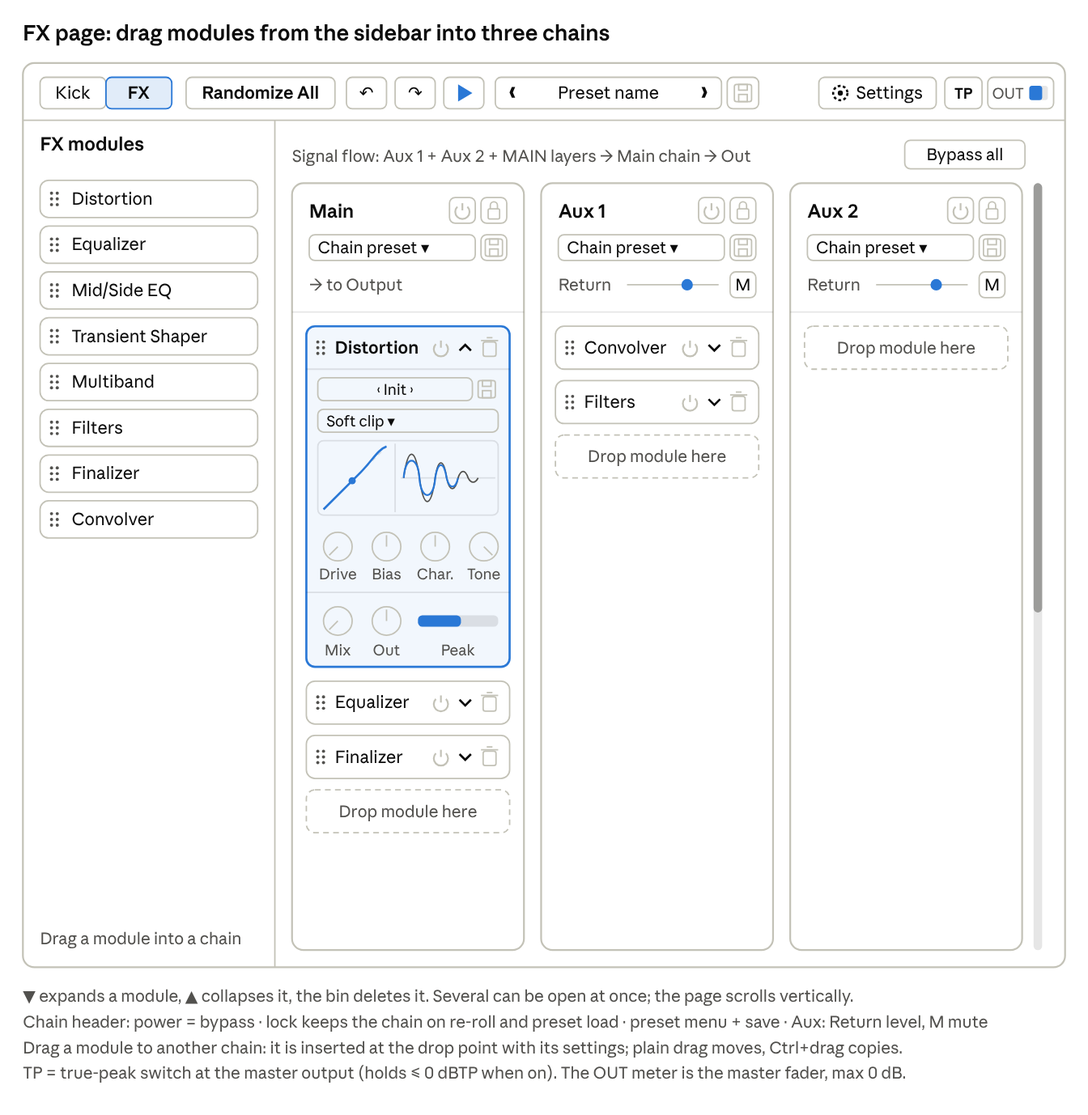
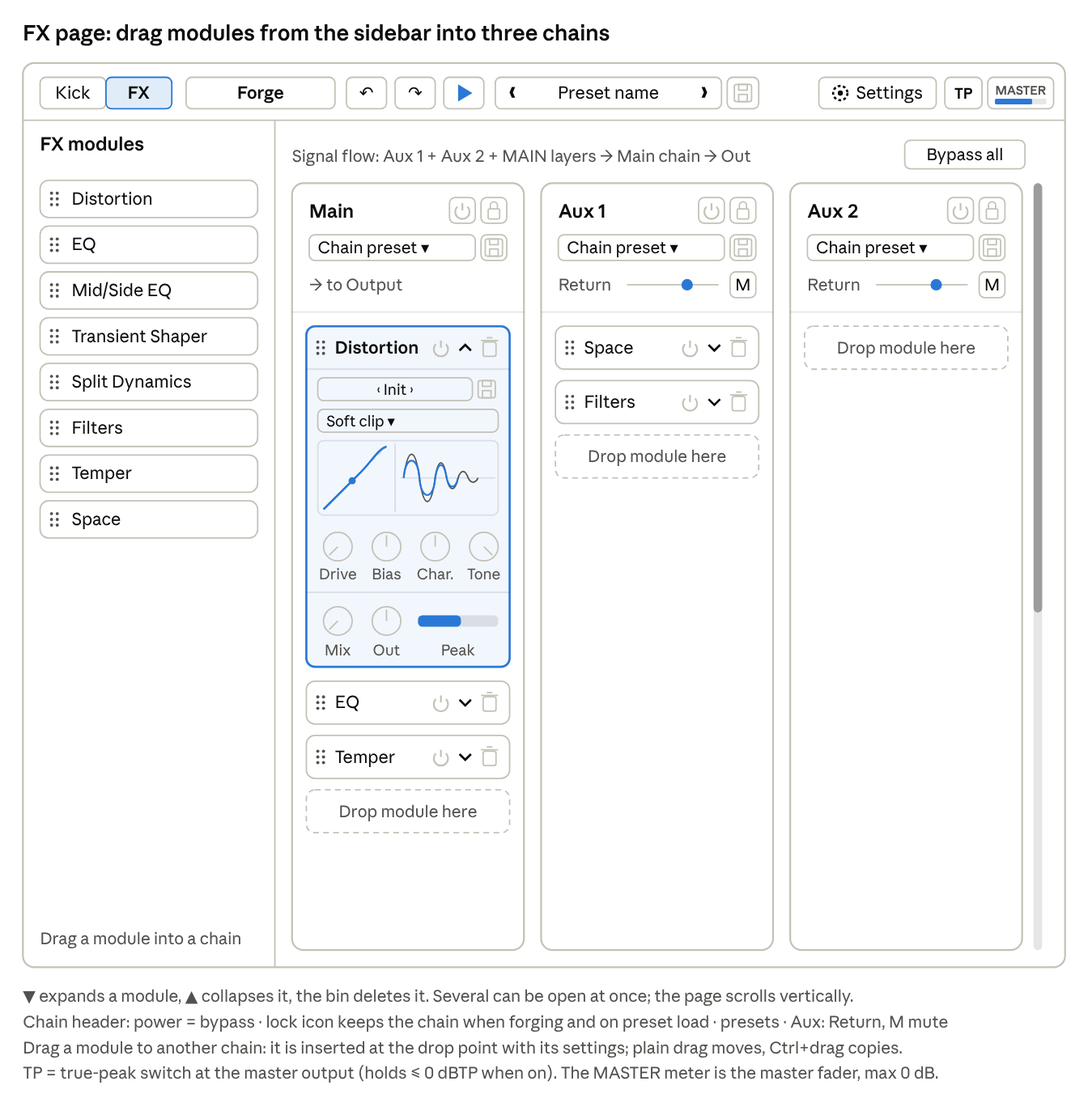
Spec v0.7: UI wording clear of the reference product (Forge, Reforge, Export all/layer, Length/Pitch/Tape, Temper, EQ, Split Dynamics, Space, MASTER, 75-200 %)
Renames UI terms that matched the reference product's feature names (section 11
trade dress). Wireframes re-exported with the new labels. Decision log keeps the
old names in earlier rows. Kept: Key Track, pitch-follow, Clip, Crunch.

diff --git a/docs/spec.md b/docs/spec.md
@@ -4,7 +4,7 @@ Oct 19, 2026 · @Bernard
 
 ## 1. Document control & purpose
 
-This is version 0.6 (draft) of the requirements and specification for KLAY (working title), a layer-based kick drum plugin inspired by a commercial layer-based kick plugin. Its job is to give the coding session a single, testable source of truth.
+This is version 0.7 (draft) of the requirements and specification for KLAY (working title), a layer-based kick drum plugin inspired by a commercial layer-based kick plugin. Its job is to give the coding session a single, testable source of truth.
 
 - **Scope:** a VST3 instrument plugin for Windows that stacks sample layers into a kick, processes it through a modular FX rack, and exports the result. Version 1 is a pure sample player with no genre style targets.
 - **Out of scope (v1):** synthesis (planned for version 2), genre style targets, macOS / AU / AAX, standalone app, copy protection and licensing, distribution, stem export (version 2), sequencing.
@@ -45,10 +45,10 @@ The primary user is a techno or hard-dance producer working at 135–160+ BPM wh
 
 **Key use cases**
 
-1. **UC-1 Roll a kick:** press Randomize All, audition via MIDI or the play button, repeat or undo.
-2. **UC-2 Refine a layer:** select a layer, swap its part, lock the rest, adjust offset, volume envelope, pitch and fader level.
+1. **UC-1 Roll a kick:** press Forge, audition via MIDI or the play button, repeat or undo.
+2. **UC-2 Refine a layer:** select a layer, swap its sample, lock the rest, adjust offset, volume envelope, pitch and fader level.
 3. **UC-3 Play in key:** key detection on layer 1 (Kick) sets the root; MIDI notes transpose all pitch-following layers in real time.
-4. **UC-4 Process:** build the Main and two Aux chains from the module sidebar, route layers to an aux chain, tweak modules, lock chains while re-rolling layers.
+4. **UC-4 Process:** build the Main and two Aux chains from the module sidebar, route layers to an aux chain, tweak modules, lock chains while reforging layers.
 5. **UC-5 Bring own sounds:** drag a folder in; it becomes a library usable in pickers and rolls.
 6. **UC-6 Export:** drag the master (incl. all FX chains) into the DAW timeline as WAV.
 7. **UC-7 Recall:** project reopens with identical sound (state saved in the host session).
@@ -57,18 +57,18 @@ The primary user is a techno or hard-dance producer working at 135–160+ BPM wh
 
 | Term | Meaning in this document |
 | --- | --- |
-| Part | One audio sample loaded into a layer |
-| Layer | A position in the stack (6 default, 12 max) holding one part; default names Kick, Rumble, Drive, Crunch, Transient, Texture, then Layer 7–12, renamable by double-click, with its own offset, volume envelope, fader, pitch, stretch, role and routing |
+| Part | Internal term for the audio sample loaded into a layer; the UI says layer or sample, never part |
+| Layer | A position in the stack (6 default, 12 max) holding one sample; default names Kick, Rumble, Drive, Crunch, Transient, Texture, then Layer 7–12, renamable by double-click, with its own offset, volume envelope, fader, pitch, stretch, role and routing |
 | Kick (layer 1) | The main kick body; carries the fundamental and is the key layer by default |
 | Crunch (layer 4) | Distorted, pitched low-end tail that follows the punch |
 | Rumble (layer 2) | Reverberated, filtered low-end bed after the kick (typical in hard techno) |
 | Transient (layer 5) | Short high-frequency attack layer for definition |
 | Drive (layer 3) / Texture (layer 6) | Drive: saturated layer adding density; Texture: extra noise, tops or reverb layer |
-| Role | The kind of part a layer holds (Kick, Rumble, Drive, Crunch, Transient, Texture or Any); layers 1–6 default to the role of their name; rolls draw from that role's pool |
+| Role | The kind of sample a layer holds (Kick, Rumble, Drive, Crunch, Transient, Texture or Any); layers 1–6 default to the role of their name; rolls draw from that role's pool |
 | Roll | One randomization action producing a new kick |
 | FX chain | Ordered list of FX modules with settings, saveable as a preset; there are three: Main, Aux 1, Aux 2 |
 | Render | Offline bounce of the stack (and, for export, all three FX chains) to an audio buffer |
-| Key Track | Mode where incoming MIDI notes transpose pitch-following parts |
+| Key Track | Mode where incoming MIDI notes transpose pitch-following layers |
 | Aux chain / routing | One of two parallel FX chains; a layer is routed to it all or nothing, and its output is mixed with the Main-routed layers before the Main chain |
 | Volume envelope | Drawable gain curve per layer over the kick length, snapped to a grid; replaces fades and sidechain ducking |
 | Selected layer | The layer whose card was clicked last (layer 1 by default); the visualiser shows it in colour and edits its envelope |
@@ -90,7 +90,7 @@ Version 1 targets one format on one platform: VST3 on Windows 10+ x64. The core 
 | FR-001 | Accept MIDI note-on to trigger the kick; velocity is ignored (every hit plays at full level) | Must |
 | FR-002 | Read host tempo and transport; manual BPM override, default 155 BPM; a changed value persists across reloads until changed again | Must |
 | FR-003 | Save and restore full state (stack, routing, volume envelopes, all three FX chains, settings, user sample references) via host session | Must |
-| FR-004 | Output stereo; the Mono dial on the Kick page (FR-216) makes the low end mono. A duplicate on the Finalizer follows in version 2 for per-layer export | Must |
+| FR-004 | Output stereo; the Mono dial on the Kick page (FR-216) makes the low end mono. A duplicate on the Temper module follows in version 2 for per-layer export | Must |
 | FR-005 | Support sample rates 44.1–192 kHz and buffer sizes 16–4096 | Must |
 | FR-006 | Expose only real-time parameters for host automation. MVP: master gain, aux return levels, aux mutes, Mono and TP. FX module parameters follow in M6 through a fixed set of automation slots, since modules are added and removed at runtime. Layer parameters baked into the offline render (fader, pitch, stretch, envelope) are not automatable | Should |
 | FR-007 | Validate in Windows VST3 hosts: Ableton Live, FL Studio, Bitwig, Reaper, Cubase, Studio One. M0 and the MVP smoke tests use Ableton Live, Reaper and FL Studio; the others follow when available | Must |
@@ -110,8 +110,8 @@ Requirements are grouped by subsystem; each maps to a module in section 10.
 | FR-102 | Per layer: time offset (sample-accurate, Shift+drag on the waveform), start trim and end trim (handles at the left and right edges of the waveform in Layer view) | Must |
 | FR-103 | Per layer: drawable volume envelope (section 7.8); replaces separate fades | Must |
 | FR-104 | Per layer, Pitch mode (FR-106): pitch ±12 semitones and ±100 cents without changing length (Signalsmith Stretch) | Must |
-| FR-105 | **Per layer: length change without pitch change**, 0.25×–8×, in Stretch mode (FR-106), using Signalsmith Stretch — top priority of the pitch/length features | Must |
-| FR-106 | Per layer: one knob and a three-way mode switch, default Stretch. Stretch: changes length only, 0.25–8×, pitch unchanged (Signalsmith Stretch, FR-105). Pitch: changes pitch only, ±12 st and ±100 ct, length unchanged (Signalsmith Stretch, FR-104). Repitch: tape-style varispeed, length and pitch change together, 0.25–8×, with the resulting pitch shown in the readout (JUCE LagrangeInterpolator). Only the active mode is applied, so a layer is either stretched, pitched or repitched. Each mode keeps its own value; switching modes applies that mode's stored value and is one undo step. Replaces the v0.4 behaviour (separate Pitch and Stretch knobs); scheduled for the second pass of M1 | Must |
+| FR-105 | **Per layer: length change without pitch change**, 0.25×–8×, in Length mode (FR-106), using Signalsmith Stretch — top priority of the pitch/length features | Must |
+| FR-106 | Per layer: one knob and a three-way mode switch, default Length. Length: changes length only, 0.25–8×, pitch unchanged (Signalsmith Stretch, FR-105). Pitch: changes pitch only, ±12 st and ±100 ct, length unchanged (Signalsmith Stretch, FR-104). Tape: tape-style varispeed (repitch), length and pitch change together, 0.25–8×, with the resulting pitch shown in the readout (JUCE LagrangeInterpolator). Only the active mode is applied, so a layer is either stretched, pitched or repitched. Each mode keeps its own value; switching modes applies that mode's stored value and is one undo step. Replaces the v0.4 behaviour (separate Pitch and Stretch knobs); scheduled for the second pass of M1 | Must |
 | FR-107 | Stack is rendered offline whenever a layer edit occurs, into three cached buses (Main-routed, Aux 1, Aux 2), each split into pitch-following and fixed layers for real-time Key Track (FR-125); playback reads the cache | Must |
 | FR-108 | Kick length set in Settings as a note value: 1/16, 1/8, 1/4 (default), 1/2, 1 bar; converted to ms from host BPM; defines visualiser, render and export length, with a 5 ms soft fade at the end. Envelope points keep their absolute time when the length changes | Must |
 | FR-109 | Autogain (on/off in Settings, default On): one gain, computed from the summed pre-FX buses (Main, Aux 1, Aux 2) and applied equally to all of them, normalises the rendered stack to a target peak (default −0.3 dBFS) before the FX chains | Should |
@@ -122,7 +122,7 @@ Requirements are grouped by subsystem; each maps to a module in section 10.
 | FR-114 | Default layer names: 1 Kick, 2 Rumble, 3 Drive, 4 Crunch, 5 Transient, 6 Texture, 7–12 "Layer N"; double-click renames any layer. Layer 1 (Kick) is the key layer | Must |
 | FR-115 | Monophonic playback: a new note-on cuts the ringing kick with a 5 ms fade | Must |
 | FR-116 | Audition button in the top bar (and space bar) plays the kick | Must |
-| FR-117 | Render in place on the layer card: bake the current mode's result into the layer's part, reset the knob to neutral, then apply another mode (for example pitch first, render, then set the length). Undoable; the original part stays available | Won't (v1) — version 2 |
+| FR-117 | Render in place on the layer card: bake the current mode's result into the layer's sample, reset the knob to neutral, then apply another mode (for example pitch first, render, then set the length). Undoable; the original part stays available | Won't (v1) — version 2 |
 
 **Listening test LT-1 — length change (run in M1, before stretch settings are locked)**
 
@@ -131,7 +131,7 @@ Requirements are grouped by subsystem; each maps to a module in section 10.
 3. **Listen for:** transient smearing on punches, phasiness or metallic artefacts in tails, pre-echo, low-end loss, level change.
 4. **Method:** level-matched blind A/B on monitors and headphones, then inside a full stacked kick.
 5. **Pass:** no audible transient smear on punches between 0.75× and 1.5×; tails usable between 0.5× and 2×.
-6. **Record:** results, chosen preset and parameters go in the decision log. If punches fail, default punch layers to Repitch and evaluate Bungee as fallback.
+6. **Record:** results, chosen preset and parameters go in the decision log. If punches fail, default punch layers to Tape mode and evaluate Bungee as fallback.
 
 ### 7.2 Pitch & key
 
@@ -149,12 +149,12 @@ Requirements are grouped by subsystem; each maps to a module in section 10.
 | ID | Requirement | Priority |
 | --- | --- | --- |
 | FR-140 | Each layer has a role (Kick, Rumble, Drive, Crunch, Transient, Texture or Any); layers 1–6 default to the role of their name; rolls draw only from that role's pool | Must |
-| FR-141 | Randomize All: draw a new sample for each unlocked layer in the roll template (FR-146) from its role pool; all other layers stay as they are, or empty. Only samples are replaced — fader, envelope, offset, pitch, stretch, routing and FX stay | Must |
-| FR-142 | Randomize one layer from its role's pool; as FR-141, only the sample is replaced | Must |
+| FR-141 | Forge: draw a new sample for each unlocked layer in the roll template (FR-146) from its role pool; all other layers stay as they are, or empty. Only samples are replaced — fader, envelope, offset, pitch, stretch, routing and FX stay | Must |
+| FR-142 | Reforge one layer (↻ on its card) from its role's pool; as FR-141, only the sample is replaced | Must |
 | FR-143 | Locked layers are never changed by rolls; mute/solo persist | Must |
 | FR-144 | Dropped (Chaos option no longer required) | — |
 | FR-145 | Undo/redo of all edits — layers, envelopes, routing, FX chains and settings (≥ 50 steps); Ctrl+Z / Ctrl+Shift+Z | Must |
-| FR-146 | Roll template: user-editable set of layers (in Settings) that Randomize All re-rolls (default: layers 1–3, Kick, Rumble, Drive) | Should |
+| FR-146 | Roll template: user-editable set of layers (in Settings) that Forge re-rolls (default: layers 1–3, Kick, Rumble, Drive) | Should |
 | FR-147 | Seeded RNG so a roll can be reproduced from its seed (debugging and preset sharing) | Should |
 | FR-148 | Option to restrict rolls to selected library folders (factory or user) | Could |
 
@@ -184,28 +184,28 @@ Requirements are grouped by subsystem; each maps to a module in section 10.
 | FR-207 | Every module: dry/wet mix, output trim, output meter | Must |
 | FR-208 | FX chain presets saved per chain; any saved chain loads into Main, Aux 1 or Aux 2; Lock per chain persists across rolls and kick preset loads | Must |
 | FR-209 | Per-module factory presets | Should |
-| FR-210 | All chains processed in real time on playback; Drag Master renders offline through all three chains | Must |
+| FR-210 | All chains processed in real time on playback; Export all renders offline through all three chains | Must |
 | FR-211 | A module dragged from one chain into another is inserted at the drop position with its current settings, not defaults; a plain drag moves it, Ctrl+drag copies it | Must |
-| FR-212 | Global oversampling with two settings: Live (Off / 2× / 4×, default 2×) for playback, Export (2× / 4× / 8×, default 8×) for Drag Master. Host-driven offline renders (bounce, freeze) always use 8×, not editable; documented in the user manual (chapter 15) | Must |
-| FR-213 | Oversampling is applied only inside modules that create harmonics (Distortion, Filters Drive, Finalizer clipper, any other saturating stage); linear modules run at the host rate; no per-module oversampling control in v1 | Must |
+| FR-212 | Global oversampling with two settings: Live (Off / 2× / 4×, default 2×) for playback, Export (2× / 4× / 8×, default 8×) for Export all. Host-driven offline renders (bounce, freeze) always use 8×, not editable; documented in the user manual (chapter 15) | Must |
+| FR-213 | Oversampling is applied only inside modules that create harmonics (Distortion, Filters Drive, Temper clipper, any other saturating stage); linear modules run at the host rate; no per-module oversampling control in v1 | Must |
 | FR-214 | Internal delay compensation: Main-routed layers, Aux 1 and Aux 2 are time-aligned before they are summed into the Main chain; total latency is reported to the host | Must |
-| FR-215 | Equalizer, Mid/Side EQ and Filters use matched ("de-cramped") biquad designs after Vicanek (2016), so bell, shelf and cut shapes stay correct up to Nyquist without oversampling | Must |
-| FR-216 | Mono dial: elliptical filter on the master output after the Main chain — the side signal is high-passed at the cutoff, so everything below is mono and the mid is untouched. Cutoff 0 (off, no processing) to 500 Hz, default 120 Hz; filter slope set in Settings; included in Drag Master | Must |
+| FR-215 | EQ, Mid/Side EQ and Filters use matched ("de-cramped") biquad designs after Vicanek (2016), so bell, shelf and cut shapes stay correct up to Nyquist without oversampling | Must |
+| FR-216 | Mono dial: elliptical filter on the master output after the Main chain — the side signal is high-passed at the cutoff, so everything below is mono and the mid is untouched. Cutoff 0 (off, no processing) to 500 Hz, default 120 Hz; filter slope set in Settings; included in Export all | Must |
 | FR-217 | Master fader (top bar output meter): −∞ to 0 dB maximum, default 0 dB; no positive gain at the master output | Must |
-| FR-218 | TP (true-peak) switch next to the master meter, default Off. On: a true-peak clipper as the very last stage (after the Mono dial and master fader) holds the output at or below 0 dBTP, measured at the global oversampling factor (Live for playback, Export for Drag Master, 8× for host offline renders; FR-212). With Live set to Off, TP limits sample peaks only during playback; the Live Off warning says so (UI-017); its latency is reported to the host; the meter reads dBTP. Included in Drag Master. True-peak handling lives here only, not in the Finalizer | Must |
+| FR-218 | TP (true-peak) switch next to the master meter, default Off. On: a true-peak clipper as the very last stage (after the Mono dial and master fader) holds the output at or below 0 dBTP, measured at the global oversampling factor (Live for playback, Export for the Export all render, 8× for host offline renders; FR-212). With Live set to Off, TP limits sample peaks only during playback; the Live Off warning says so (UI-017); its latency is reported to the host; the meter reads dBTP. Included in Export all. True-peak handling lives here only, not in the Temper module | Must |
 
 Module backlog in build order (MVP set in bold):
 
 | Module | v1 scope |
 | --- | --- |
 | **Distortion** | Ten modes incl. Tape, Tube and three Amp modes; drive, bias, character, tone (7.5.2); oversampling from the global setting (FR-212) |
-| **Equalizer** | 4 bands: low cut, two parametric bands, high cut (7.5.3); note-name frequency entry; matched biquads (FR-215) |
-| **Finalizer** | Low-shelf boost, clipper with clip indicator; mono-below option added in version 2 (the global option covers v1) |
+| **EQ** | 4 bands: low cut, two parametric bands, high cut (7.5.3); note-name frequency entry; matched biquads (FR-215) |
+| **Temper** | Low-shelf boost, clipper with clip indicator; mono-below option added in version 2 (the global option covers v1) |
 | **Filters** | LP/HP/BP/notch/all-pass with selectable slopes and a filter drive (7.5.4), matched biquads (FR-215); comb and phaser later |
 | Transient Shaper | Attack amount, sustain, speed |
 | Mid/Side EQ | Low-cut on side, simple bands on mid |
-| Multiband | 3-band up/down compression, crossovers, per-band gain |
-| Convolver | IR loader, tempo-synced envelope on the wet signal |
+| Split Dynamics | 3-band up/down compression, crossovers, per-band gain |
+| Space | IR loader, tempo-synced envelope on the wet signal |
 
 The reference's Kick Shaper module is dropped: the per-layer volume envelope covers it, and also replaces sidechain ducking.
 
@@ -225,7 +225,7 @@ Every FX module follows these rules; module-specific specs only add to them.
 | FR-227 | Mix 0% fully bypasses the effect, latency kept | Must |
 | FR-228 | Out −12 to +12 dB, default 0 dB; no automatic gain compensation | Must |
 | FR-229 | Drive control (input gain) on the Distortion module only: 0 to +36 dB, default 0 dB; no separate Input control (7.5.2) | Must |
-| FR-230 | Every module has a peak output meter; dynamics modules (Multiband, Transient Shaper) also show gain reduction | Must |
+| FR-230 | Every module has a peak output meter; dynamics modules (Split Dynamics, Transient Shaper) also show gain reduction | Must |
 | FR-231 | Stereo linked processing; mid/side only in modules built for it (Mid/Side EQ) | Must |
 | FR-232 | One interface for all modules: prepare (sample rate, block size), process, reset, latency, state save/load, parameter list | Must |
 | FR-233 | Each module reports its latency, including oversampling; the chain sums and compensates it (FR-214) | Must |
@@ -299,9 +299,9 @@ Distortion is a single waveshaping stage with ten curve types, Drive, Bias and o
 - [x] Drive range 0 to +36 dB, default 0 dB, merged with Input (decided 2026-10-18).
 - [ ] Factory preset names and count — content from you, as with the samples.
 
-### 7.5.3 Equalizer
+### 7.5.3 EQ
 
-The Equalizer has four bands in fixed order: low cut, two fully parametric bands, high cut. It loads flat: both cuts off, both bands at 0 dB. All filters are matched biquads (FR-215), run at the host rate and add no latency.
+The EQ has four bands in fixed order: low cut, two fully parametric bands, high cut. It loads flat: both cuts off, both bands at 0 dB. All filters are matched biquads (FR-215), run at the host rate and add no latency.
 
 **Bands**
 
@@ -373,9 +373,9 @@ Filters is a single filter with five types (LP, HP, BP, Notch, AP), a slope swit
 - [x] Drive position: switchable Pre/Post, default Pre (decided 2026-10-18).
 - [x] Drive range 0 to +36 dB, matching the Distortion (decided 2026-10-18).
 
-### 7.5.5 Finalizer
+### 7.5.5 Temper
 
-The Finalizer is the last-stage module: a low-shelf boost for weight, then a clipper that holds peaks under a ceiling and shows what it clips. The shelf is a matched biquad at the host rate; only the clipper is oversampled (FR-213). It loads neutral: no boost, no clip gain, ceiling 0 dBFS, so a signal below 0 dBFS passes untouched: while Clip gain is 0 dB and the block peak stays below the ceiling, the clipper path is bypassed with its latency kept, so the output is bit-identical; otherwise neutral settings null better than −90 dB. Mono-below is covered by the global Mono dial in v1 (FR-216).
+Temper is the last-stage module: a low-shelf boost for weight, then a clipper that holds peaks under a ceiling and shows what it clips. The shelf is a matched biquad at the host rate; only the clipper is oversampled (FR-213). It loads neutral: no boost, no clip gain, ceiling 0 dBFS, so a signal below 0 dBFS passes untouched: while Clip gain is 0 dB and the block peak stays below the ceiling, the clipper path is bypassed with its latency kept, so the output is bit-identical; otherwise neutral settings null better than −90 dB. Mono-below is covered by the global Mono dial in v1 (FR-216).
 
 **Signal path**
 
@@ -410,7 +410,7 @@ The Finalizer is the last-stage module: a low-shelf boost for weight, then a cli
 **Open points**
 
 - [x] Out keeps the common ±12 dB; the output is protected at the master instead — master fader max 0 dB (FR-217), TP switch (FR-218) (decided 2026-10-18).
-- [x] No true-peak mode in the Finalizer; true peak is handled by the master TP switch (FR-218) (decided 2026-10-18).
+- [x] No true-peak mode in Temper; true peak is handled by the master TP switch (FR-218) (decided 2026-10-18).
 
 ### 7.6 Presets & state
 
@@ -427,11 +427,11 @@ The Finalizer is the last-stage module: a low-shelf boost for weight, then a cli
 
 | ID | Requirement | Priority |
 | --- | --- | --- |
-| FR-260 | Drag Master: drag a WAV of the rendered kick incl. all three FX chains into the host | Must |
-| FR-261 | Drag Stems: one WAV per active part (pre-FX) — deferred to version 2 | Won't (v1) |
+| FR-260 | Export all: drag a WAV of the rendered kick incl. all three FX chains into the host | Must |
+| FR-261 | Export layer: one WAV per active layer (pre-FX) — deferred to version 2 | Won't (v1) |
 | FR-262 | Export format: 24-bit WAV at host sample rate with deterministic TPDF dither (fixed seed, keeps NFR-009); optional 32-bit float without dither. Review before the MVP release: dither yes or no? The current default stays until then | Must |
 | FR-263 | Export file names encode preset name, key and BPM (e.g. `MyKick_F#1_150bpm.wav`) | Should |
-| FR-264 | Export also via a save dialog from the Drag Master button's menu (for hosts with poor drag support) | Must |
+| FR-264 | Export also via a save dialog from the Export all button's menu (for hosts with poor drag support) | Must |
 
 ### 7.8 Volume envelope editor
 
@@ -453,32 +453,32 @@ Two main pages, Kick (default) and FX, switched from the top bar. The library is
 
 | ID | Requirement | Priority |
 | --- | --- | --- |
-| UI-001 | Top bar: page switch (Kick / FX), Randomize All, undo/redo, Audition button (play icon), preset field with ‹ › arrows inside its frame and an unsaved dot, floppy-disc icon to save / save as, Settings menu (cog icon + "Settings" label), output meter/master fader (max 0 dB, FR-217) with a TP true-peak switch (FR-218) | Must |
+| UI-001 | Top bar: page switch (Kick / FX), Forge, undo/redo, Audition button (play icon), preset field with ‹ › arrows inside its frame and an unsaved dot, floppy-disc icon to save / save as, Settings menu (cog icon + "Settings" label), output meter/master fader labelled MASTER (max 0 dB, FR-217) with a TP true-peak switch (FR-218) | Must |
 | UI-002 | Kick page: library as a left sidebar (factory samples, user libraries, presets); samples dragged from it onto layer cards; a toggle in the sidebar header hides and shows it | Must |
 | UI-003 | Visualiser default view **Layer**: the selected layer's waveform in its card colour, all other layers greyed out. View **Sum**: all layers combined, taken from the master output including all FX (a display-only background render through all chains, Mono, master fader and TP at the Live oversampling factor) | Must |
 | UI-004 | In Layer view the volume envelope editor (section 7.8) is overlaid on the waveform with its snap grid; Shift+drag on the waveform moves the layer in time; handles at the waveform's left and right edges set start and end trim (FR-102) | Must |
 | UI-005 | Time axis spans the kick length (FR-108); labels toggle between beats and ms (ms from host BPM) | Should |
 | UI-006 | Clip toggle, active in Sum view only: highlights master-output samples above 0 dBFS | Should |
-| UI-007 | Layer card: colour dot, layer name (double-click to rename), bin icon top right (disabled when locked); role selector; ◀ ▶ part browsing; mini waveform with the part name; one layer knob with a three-way switch directly below it: Stretch · Pitch · Repitch (FR-106, default Stretch); the knob's label, range and readout follow the mode (Length 0.25–8×, Pitch ±12 st ±100 ct, Speed 0.25–8× with the resulting pitch); vertical volume fader on the right with the routing button below it (MAIN / A1 / A2, click cycles); buttons L lock, M mute, S solo, P pitch-follow, ↻ re-roll. The selected card is highlighted | Must |
+| UI-007 | Layer card: colour dot, layer name (double-click to rename), bin icon top right (disabled when locked); role selector; ◀ ▶ to browse samples for the layer; mini waveform with the layer's file name; one layer knob with a three-way switch directly below it: Length · Pitch · Tape (FR-106, default Length); the knob's label, range and readout follow the mode (Length 0.25–8×, Pitch ±12 st ±100 ct, Speed 0.25–8× with the resulting pitch); vertical volume fader on the right with the routing button below it (MAIN / A1 / A2, click cycles); buttons L lock, M mute, S solo, P pitch-follow, ↻ reforge. The selected card is highlighted | Must |
 | UI-008 | FX page: left sidebar listing all FX modules; three chain columns side by side (Main, Aux 1, Aux 2); modules dragged from the sidebar into a chain and reordered by drag | Must |
 | UI-009 | Each module row has a ▼ icon that expands it to show all controls and a ▲ icon that collapses it again; a bin icon deletes the module (same icon as on the layer cards). Any number of modules can be expanded at once; an expanded view pushes the content below it down | Must |
 | UI-010 | The FX page scrolls vertically when content exceeds the window height | Must |
-| UI-011 | Chain column header: chain name, bypass, lock, chain preset load/save; aux columns also show return level and mute | Must |
+| UI-011 | Chain column header: chain name, bypass, lock (icon only, tooltip “Keep this chain when forging”), chain preset load/save; aux columns also show return level and mute | Must |
 | UI-012 | EQ and Filters show the live output spectrum behind the curve; the EQ shades boosts and cuts (FR-312, FR-323) | Must |
-| UI-013 | Resizable window (XS–XL presets + drag corner), vector-drawn UI, HiDPI | Must |
+| UI-013 | Resizable window (size presets 75 %, 100 %, 125 %, 150 %, 200 % + drag corner), vector-drawn UI, HiDPI | Must |
 | UI-014 | Colour themes (min. 2: dark default + one alternative) | Could |
 | UI-015 | Keyboard: Ctrl+Z, Ctrl+Shift+Z, space to audition | Should |
 | UI-016 | Tooltips on every control; double-click resets to default; Ctrl-drag for fine adjust on knobs and faders (Ctrl+drag on an FX module's header copies the module instead, FR-211) | Should |
-| UI-017 | Settings menu: kick length, envelope grid (4×4 / 8×8 / 16×16), roll template, key layer, host-tempo sync or manual BPM (default 155), restore or reset on launch, oversampling Live / Export (warning when Live is Off: distortion may alias, and the TP switch can no longer catch peaks between samples during playback), Mono filter slope (6 / 12 / 24 / 48 dB/oct, default 12), autogain on/off (FR-109, default On), library preview on click (On/Off, default On; UI-024), colour theme, window size | Must |
-| UI-018 | Mono dial above the visualiser, left of Drag Master, labelled "Mono" only. A value arc around the dial shows the setting (empty arc = Off); the Hz value pops up on hover and while dragging (UI-019). Range 0 (Off) to 500 Hz, default 120 Hz, logarithmic travel | Must |
-| UI-019 | All dials share one behaviour: a value arc around the dial (empty at minimum or Off); the value pops up on hover and while dragging; a soft catch at the default value while dragging; double-click resets to default; right-click opens a field to type an exact value; Ctrl+drag and the mouse wheel give fine steps. Travel is linear for every dial except Mono (UI-018) and the layer knob in Stretch and Repitch mode, which are logarithmic; the layer volume fader uses a top-weighted taper (FR-101) | Must |
+| UI-017 | Settings menu: kick length, envelope grid (4×4 / 8×8 / 16×16), roll template, key layer, host-tempo sync or manual BPM (default 155), on open: last session or empty kick, oversampling Live / Export (warning when Live is Off: distortion may alias, and the TP switch can no longer catch peaks between samples during playback), Mono filter slope (6 / 12 / 24 / 48 dB/oct, default 12), autogain on/off (FR-109, default On), library preview on click (On/Off, default On; UI-024), colour theme, window size | Must |
+| UI-018 | Mono dial above the visualiser, left of Export all, labelled "Mono" only. A value arc around the dial shows the setting (empty arc = Off); the Hz value pops up on hover and while dragging (UI-019). Range 0 (Off) to 500 Hz, default 120 Hz, logarithmic travel | Must |
+| UI-019 | All dials share one behaviour: a value arc around the dial (empty at minimum or Off); the value pops up on hover and while dragging; a soft catch at the default value while dragging; double-click resets to default; right-click opens a field to type an exact value; Ctrl+drag and the mouse wheel give fine steps. Travel is linear for every dial except Mono (UI-018) and the layer knob in Length and Tape mode, which are logarithmic; the layer volume fader uses a top-weighted taper (FR-101) | Must |
 | UI-020 | Default theme “Forge”: gunmetal neutrals (body #111214, panel #1c1e21, edge #3a3d42, text #e9e5de, dim text #959089) with chamfered panel corners. Ember #ff5a1f is the only colour for on and selected, and the only colour that glows (soft bloom on the visualiser trace, values, meters and active controls). Bronze #c58b4b marks section headings, the Main route, trim handles and fader caps, never an on state. Amber #e0b04a means muted or a warning; red #ff3b30 means clipping only. Layer names are white. Fonts: Saira Condensed for labels, JetBrains Mono for values (both SIL Open Font License) | Must |
-| UI-021 | Meters (OUT and module peak meters) use a temper scale: dull red at low level, through ember, to white at 0 dBFS; the clip LED turns red and holds for 1 s | Should |
+| UI-021 | Meters (MASTER and module peak meters) use a temper scale: dull red at low level, through ember, to white at 0 dBFS; the clip LED turns red and holds for 1 s | Should |
 | UI-022 | Layer card states: selected = ember edge with glow; muted = amber M and a dimmed waveform; soloed = ember S, other layers dimmed; locked = LOCKED badge and the bin disabled; empty = dashed outline, “Drop a sample here” and a Roll button; drop target = ember dashed outline with the file name; missing sample = amber edge plus a message with Relink… | Must |
 | UI-023 | Value pop-ups (UI-019) draw above every panel and are never clipped by a panel edge; near the top of the window they appear below the control | Must |
 | UI-024 | Library preview: a single click on a sample plays it. Settings → Library preview On/Off, default On; with Off, nothing plays until the sample is on a layer and the kick is triggered | Should |
 | UI-025 | Collapsing the library leaves a 40 px rail: expand button, search, one button per role. A role button expands the library opened at that role, and the role row is briefly highlighted. The visualiser and layer cards take the freed width; the window size does not change | Must |
-| UI-026 | Window size M is 1180 × 760 px; XS–XL scale from it (UI-013); at XS the library starts collapsed | Should |
+| UI-026 | Window size M is 1180 × 760 px; it is the 100 % size, and 75–200 % scale from it (UI-013); at 75 % the library starts collapsed | Should |
 | UI-027 | Key display states (FR-120, FR-123): detected = note and Hz in ember; uncertain = amber with “?” after the note; none = “—” | Should |
 | UI-028 | Layer fader scale (FR-101): ticks at 0, −3, −6, −12, −24 dB and −∞; half the travel covers 0 to about −13 dB | Should |
 | UI-029 | The preset field shows FACTORY or USER before the preset name; the visualiser footer shows the selected layer's offset, trim range and envelope point count | Could |
@@ -493,11 +493,11 @@ Layer 1 is selected: its waveform shows in its card colour with the volume envel
 
 ![FX page wireframe · module sidebar, Main / Aux 1 / Aux 2 chain columns, one module expanded](wireframes/fx-page.png)
 
-Distortion in the Main chain is expanded to show its controls; Equalizer, Finalizer and the Aux 1 modules are collapsed, and Aux 2 is still empty.
+Distortion in the Main chain is expanded to show its controls; EQ, Temper and the Aux 1 modules are collapsed, and Aux 2 is still empty.
 
-![MVP modules expanded · Equalizer, Filters, Finalizer at their defaults](wireframes/fx-modules-expanded.png)
+![MVP modules expanded · EQ, Filters, Temper at their defaults](wireframes/fx-modules-expanded.png)
 
-Equalizer, Filters and Finalizer follow the common module layout (FR-221): display on top, module controls, then Mix, Out and the peak meter (specs in 7.5.3–7.5.5).
+EQ, Filters and Temper follow the common module layout (FR-221): display on top, module controls, then Mix, Out and the peak meter (specs in 7.5.3–7.5.5).
 
 ![Settings menu wireframe · panel under the cog, five groups](wireframes/settings-menu.png)
 
@@ -513,7 +513,7 @@ The audio thread must never block: no allocation, locks, file I/O or logging ins
 | NFR-002 | CPU per instance at 48 kHz / 128 samples, three chains with 9 modules in total | < 5% of one modern core (to confirm on reference machine) |
 | NFR-003 | Added latency | No added latency from Key Track pitch shifting (FR-125); oversampling latency reported to the host, paths aligned (FR-214) |
 | NFR-004 | Re-render time of the stack after an edit (12 layers, 1 beat at 150 BPM) | < 30 ms, on a background thread |
-| NFR-005 | Randomize All to audible result | < 100 ms |
+| NFR-005 | Forge to audible result | < 100 ms |
 | NFR-006 | UI frame rate during playback | ≥ 30 fps, visualiser never blocks audio |
 | NFR-007 | Memory: factory library streamed or lazy-loaded | < 300 MB RAM per instance |
 | NFR-008 | Startup time of a new instance | < 1.5 s with index cached |
@@ -524,7 +524,7 @@ The audio thread must never block: no allocation, locks, file I/O or logging ins
 | NFR-013 | Thread-safe parameter and state transfer UI ↔ audio (lock-free FIFOs / atomics) | Required |
 | NFR-014 | RAM for the Key Track transposition cache (all buses, 48 kHz) | < 128 MB per instance; above that the least recently played notes are evicted (estimate, confirm with AC-1) |
 | NFR-015 | Transposition cache rebuild after an edit, in the background | Root ±2 semitones < 100 ms, ±12 < 1 s, other notes on first play (confirm with AC-2) |
-| NFR-016 | Drag Master render time with 8× export oversampling (1-bar kick, full chains) | < 1 s (to confirm in M5) |
+| NFR-016 | Export all render time with 8× export oversampling (1-bar kick, full chains) | < 1 s (to confirm in M5) |
 
 ## 10. Architecture & technology decisions
 
@@ -583,11 +583,11 @@ Every Must requirement needs at least one automated test or a scripted manual ch
 | Performance | CPU and render-time targets from section 9 | Benchmark harness in CI |
 | Latency alignment | Main and aux paths sum without offset at every oversampling setting (FR-214), null test against a reference | Render CLI |
 | Listening test | LT-1 length change (section 7.1) | Manual, results in decision log |
-| Export and cache performance | Drag Master render time (NFR-016), transposition cache build time and RAM (NFR-014, NFR-015) | Benchmark harness in CI |
+| Export and cache performance | Export all render time (NFR-016), transposition cache build time and RAM (NFR-014, NFR-015) | Benchmark harness in CI |
 
 **Acceptance criteria examples (Gherkin style)**
 
-- *Given* layer 2 locked and layer 3 set to role Crunch, *when* the user presses Randomize All, *then* layer 2 is unchanged and layer 3 holds a sample from the Crunch pool.
+- *Given* layer 2 locked and layer 3 set to role Crunch, *when* the user presses Forge, *then* layer 2 is unchanged and layer 3 holds a sample from the Crunch pool.
 - *Given* Key Track on and a detected root of F, *when* MIDI note G is played, *then* pitch-following layers sound 2 semitones up without added delay, and the Transient layer is unchanged.
 - *Given* any state, *when* the project is saved and reopened, *then* a render is bit-identical to the one before saving.
 - *Given* layer 1 routed to A1 and layer 2 routed to MAIN, *when* Aux 1 is muted, *then* layer 1 is silent and layer 2 is unchanged.
@@ -612,14 +612,14 @@ The MVP is a playable 6-layer stack with role-based randomization, four FX modul
 | Milestone | Scope | Exit criterion |
 | --- | --- | --- |
 | M0 Skeleton | Project setup, CMake, Windows VST3 target, CI, pluginval in CI | Empty plugin loads in Ableton Live, Reaper and FL Studio |
-| M1 Layer engine | 6 layers, load WAV, offset, start trim, fader, volume envelope (render side), length change via Signalsmith Stretch, Repitch, offline render cache, MIDI trigger (monophonic, 5 ms cut), host tempo, key detection, real-time Key Track | Hand-built kick plays in key; listening test LT-1 passed |
-| M2 Library + randomizer | Sample index, role pools, roll template, Randomize All / per layer, lock/mute/solo, undo/redo | UC-1 and UC-2 pass |
+| M1 Layer engine | 6 layers, load WAV, offset, start trim, fader, volume envelope (render side), length change via Signalsmith Stretch, Tape mode (repitch), offline render cache, MIDI trigger (monophonic, 5 ms cut), host tempo, key detection, real-time Key Track | Hand-built kick plays in key; listening test LT-1 passed |
+| M2 Library + randomizer | Sample index, role pools, roll template, Forge / Reforge per layer, lock/mute/solo, undo/redo | UC-1 and UC-2 pass |
 | M3 Visualiser UI | Kick page with library sidebar, Layer/Sum visualiser with envelope editor, audition button, layer naming, Settings menu, layer cards | UI-001–UI-007 and UI-017 pass |
-| M4 FX rack v1 | Main + 2 Aux chains, per-layer routing, drag & drop chain building, expandable module views; Distortion, EQ, Filters, Finalizer; save/lock per chain; global oversampling, path delay compensation, matched EQ/filters, Mono dial, master fader cap, TP switch (FR-212–218); module specs in 7.5.1–7.5.5 | UC-4 passes |
-| M5 Presets + export | Kick presets (floppy save / save as), Drag Master (all FX chains) with save dialog | UC-6 and UC-7 pass → **MVP** |
+| M4 FX rack v1 | Main + 2 Aux chains, per-layer routing, drag & drop chain building, expandable module views; Distortion, EQ, Filters, Temper; save/lock per chain; global oversampling, path delay compensation, matched EQ/filters, Mono dial, master fader cap, TP switch (FR-212–218); module specs in 7.5.1–7.5.5 | UC-4 passes |
+| M5 Presets + export | Kick presets (floppy save / save as), Export all (all FX chains) with save dialog | UC-6 and UC-7 pass → **MVP** |
 | M6 Extended | 12 layers, user libraries, remaining 4 FX modules | Version 1 feature-complete |
 | M7 Release | Windows installer, factory content integrated, release QA | Version 1 release candidate |
-| V2 Synthesis tail + Drag Stems | Synthesis engine for the main kick tail, used as a layer type next to samples; key-tracked, rendered by the stack renderer; Drag Stems export (one WAV per part); spectral sidechain option; Finalizer mono-below for per-layer export; render in place on the layer card (FR-117); velocity-driven layer morphing (idea) | A synthesized tail can replace or blend with a sample tail |
+| V2 Synthesis tail + Export layer | Synthesis engine for the main kick tail, used as a layer type next to samples; key-tracked, rendered by the stack renderer; Export layer (one WAV per layer); spectral sidechain option; Temper mono-below for per-layer export; render in place on the layer card (FR-117); velocity-driven layer morphing (idea) | A synthesized tail can replace or blend with a sample tail |
 
 ## 14. Open questions & decision log
 
@@ -682,6 +682,7 @@ These need answers before or during the first coding session.
 | 2026-10-19 | Layer mode default Stretch; in Repitch mode the Pitch knob is greyed out and the Stretch knob sets the varispeed (FR-106, UI-007). The kick-page wireframe has no mode switch yet: update it before M3 UI work. Signalsmith pitch-shift accuracy (up to \~8 cents on a sine) accepted, judged in LT-2. Stretched parts are level-compensated to the input RMS | Product owner decisions from the M1 review; FR-106 did not say what the knobs do in Repitch mode, and Signalsmith loses up to \~3.5 dB at long stretches |
 | 2026-10-19 | Visual design: Forge theme (gunmetal + bronze, ember as the only active and glowing colour, standard bloom, temper-scale meters), white layer names; Kick page mock is the design reference (UI-020 to UI-029). Library preview on single click, switchable in Settings. Collapsed library becomes a rail; a role button expands it at that role. Stretch / Repitch switch sits below the Pitch knob. Layer-card knob design to be revisited in M3; document version 0.5 | Product owner decisions from the UI design review |
 | 2026-10-19 | One layer knob with a three-way mode switch (Stretch: length only · Pitch: pitch only · Repitch: tape-style, both together), default Stretch; replaces the separate Pitch and Stretch knobs (FR-104–106, UI-007, UI-019). Implemented in the second pass of M1, since M1 is running on v0.4. Render in place on the card planned for version 2 (FR-117); document version 0.6 | Product owner decision; the v0.5 mock showed two knobs plus a switch were redundant, and one transform per layer keeps the card simple |
+| 2026-10-19 | UI wording changed to stay clear of the reference product's feature names: Drag Master → Export all; Drag Stems → Export layer; Randomize All → Forge; per-layer roll → Reforge; layer modes Stretch / Pitch / Repitch → Length / Pitch / Tape; Finalizer → Temper; Equalizer → EQ; Multiband → Split Dynamics; Convolver → Space; “restore or reset on launch” → “on open: last session or empty kick”; OUT → MASTER; window sizes XS–XL → 75–200 %; chain lock is icon-only; “part” → “layer”/“sample” in the UI. Kept: Key Track, pitch-follow (P), Clip, Crunch. Earlier rows keep the old names; document version 0.7 | Product owner decisions from the wording review against the reference product; lowers trademark and look-alike risk (section 11) |
 
 ### Sources
 
@@ -696,4 +697,4 @@ Items the user manual must explain; collected here so nothing is lost before the
 - Mono dial: 0 means no processing; the filter slope is set in Settings.
 - A newly added Distortion loads with Mix at 0 %, so it changes nothing until Mix is turned up.
 - TP switch: holds the output at or below 0 dBTP and switches the output meter to dBTP; the master fader goes up to 0 dB only.
-- With Live oversampling Off, TP catches only sample peaks during playback, not peaks between samples; Drag Master and host renders are always oversampled.
+- With Live oversampling Off, TP catches only sample peaks during playback, not peaks between samples; Export all and host renders are always oversampled.

diff --git a/CLAUDE.md b/CLAUDE.md
@@ -1,7 +1,7 @@
 # KLAY — project rules for Claude Code
 
 KLAY is a layer-based kick drum VST3 instrument (sample player in v1). The full
-requirements live in `docs/spec.md` (v0.6); wireframes are in `docs/wireframes/`.
+requirements live in `docs/spec.md` (v0.7); wireframes are in `docs/wireframes/`.
 The build order and task breakdown live in `docs/plan.md` once it exists.
 
 ## How to work
